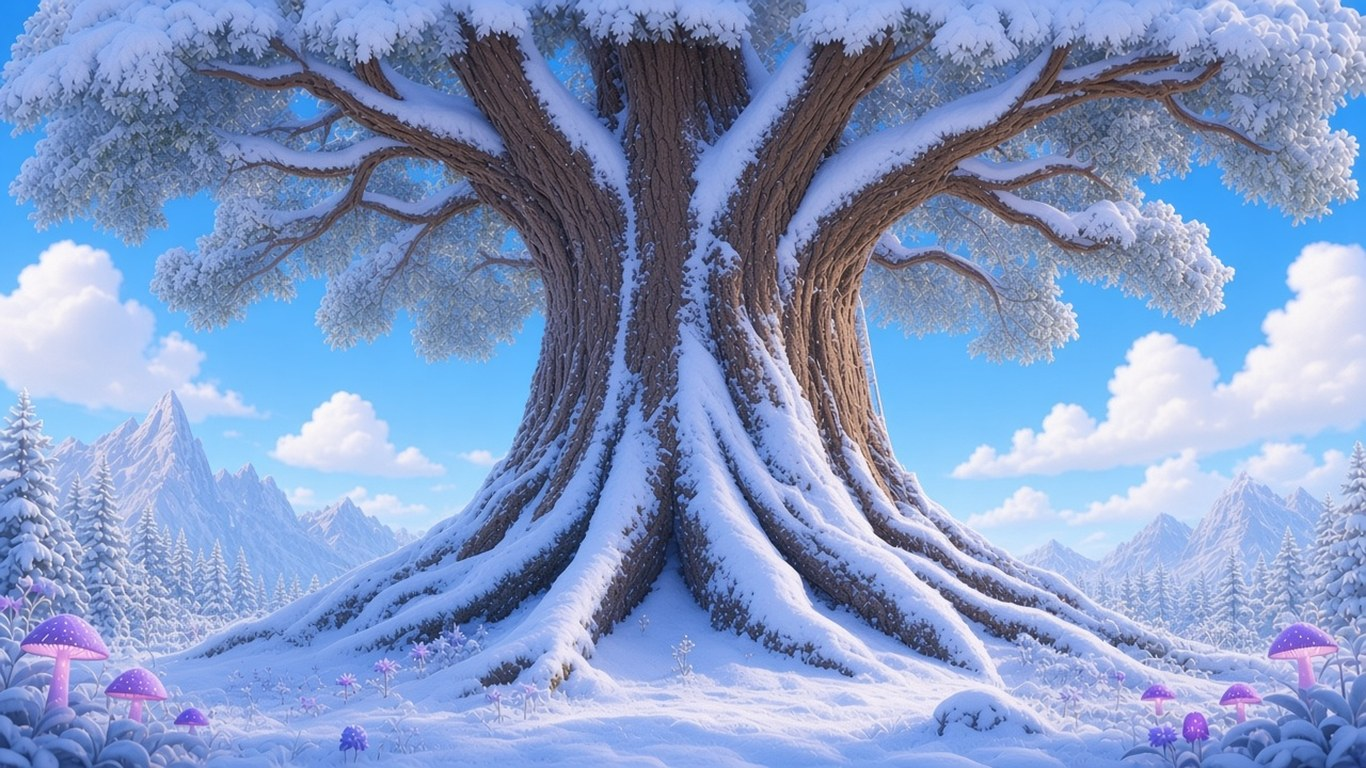
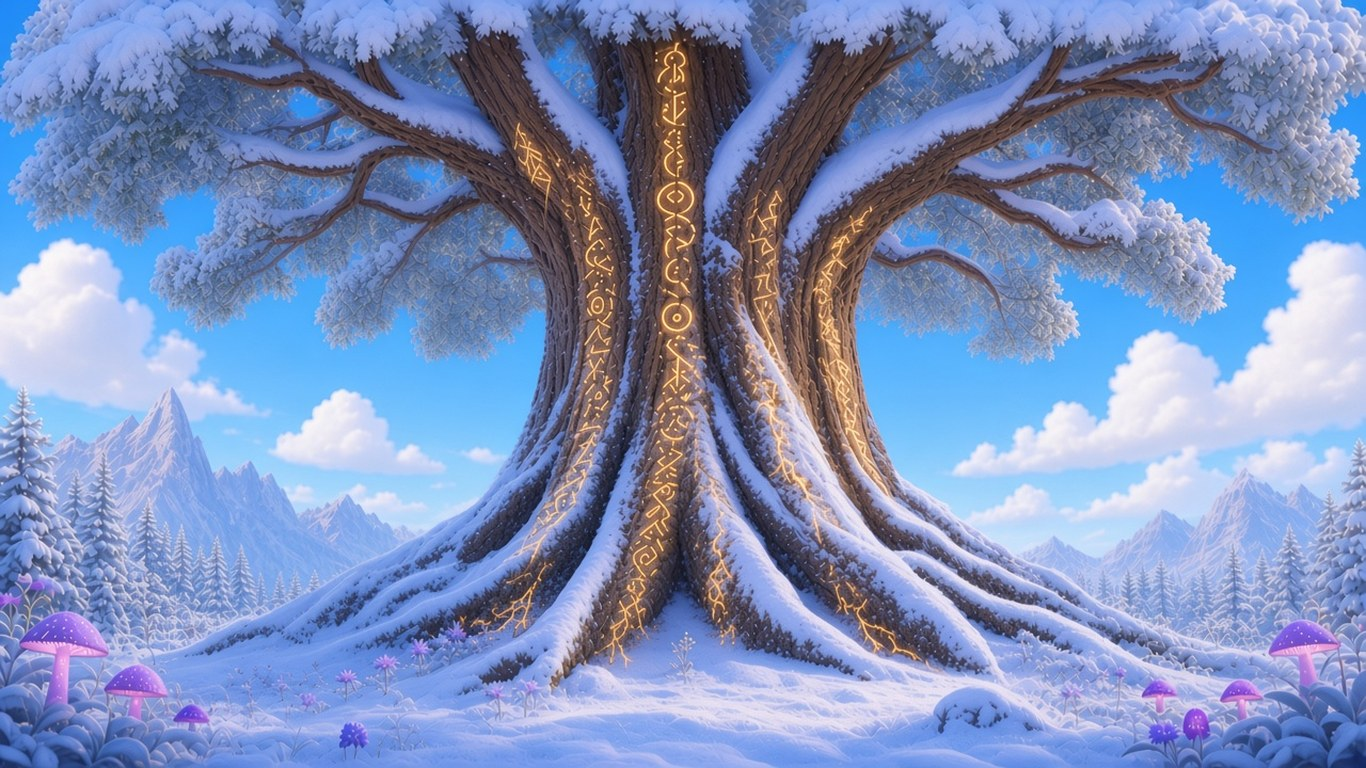
A.1: repainted winter day plate with trunk runes (v=3)

diff --git a/public/demo/proto/proto.js b/public/demo/proto/proto.js
@@ -16,7 +16,7 @@
   else if (q.has("proto") || q.has("p")) { s.on = true; put(s); }
   if (s.on === false) return;
 
-  var css = document.createElement("link"); css.rel = "stylesheet"; css.href = base + "proto.css?v=21"; document.head.appendChild(css);
+  var css = document.createElement("link"); css.rel = "stylesheet"; css.href = base + "proto.css?v=22"; document.head.appendChild(css);
   root.classList.add("pa", "pa-" + PAGE);
 
   var D = {
@@ -360,7 +360,7 @@
       var key = on ? t : "base", se = s.season !== "summer" ? s.season : "", cl = !se && s.lanShape !== "cur", sea = se || cl;
       /* painted plates: seasons have day/night/sunset art (sunrise = day plate + warm grade); summer uses lantern-free plates when lanterns are code-drawn */
       var tk = on ? t : "dusk", bg = document.getElementById("sceneBg");
-      if (bg) bg.src = se ? "plates/seasonplate-" + se + (tk === "day" || tk === "sunrise" ? "-day" : tk === "night" ? "-night" : "") + ".jpg?v=2" : cl ? "plates/clean-" + tk + ".jpg?v=1" : "plates/" + key + ".jpg";
+      if (bg) bg.src = se ? "plates/seasonplate-" + se + (tk === "day" || tk === "sunrise" ? "-day" : tk === "night" ? "-night" : "") + ".jpg?v=" + (se === "winter" && (tk === "day" || tk === "sunrise") ? 3 : 2) : cl ? "plates/clean-" + tk + ".jpg?v=1" : "plates/" + key + ".jpg";
       var lc = document.getElementById("lanCuts"); if (lc) lc.src = "plates/" + (sea ? "season-" : "") + "lanterns-" + key + ".webp" + (sea ? "?v=2" : "");
       var ac = document.getElementById("astraCut"); if (ac) { ac.src = "plates/astra-" + key + ".webp"; ac.style.visibility = sea ? "hidden" : ""; }
       var sc = document.getElementById("signCut"); if (sc) sc.src = sea ? "plates/season-astra-" + key + ".webp?v=2" : "plates/sign-" + key + ".webp";

diff --git a/public/dashboard-a1/index.html b/public/dashboard-a1/index.html
@@ -38,5 +38,5 @@
 })();
 </script>
 <script src="../demo/ambient.js?v=4" data-preset="a1"></script>
-<script src="../demo/worlds-catalog.js"></script><script src="../demo/proto/proto.js?v=18" data-page="a1"></script>
+<script src="../demo/worlds-catalog.js"></script><script src="../demo/proto/proto.js?v=19" data-page="a1"></script>
 </body></html>
